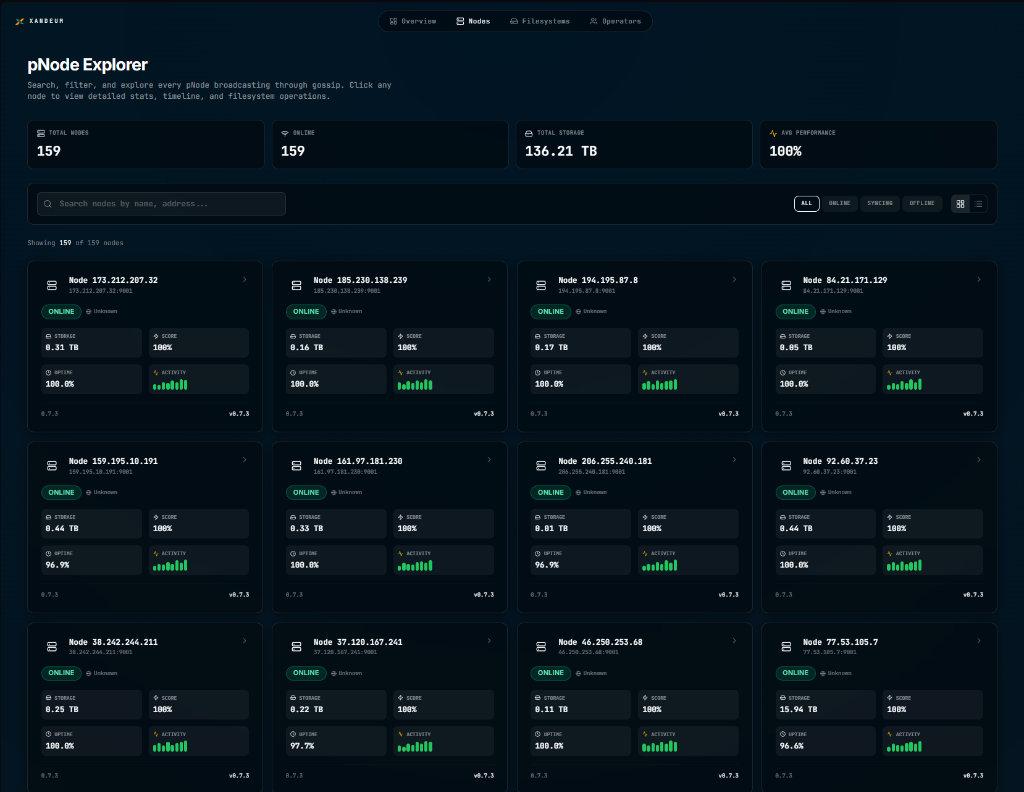
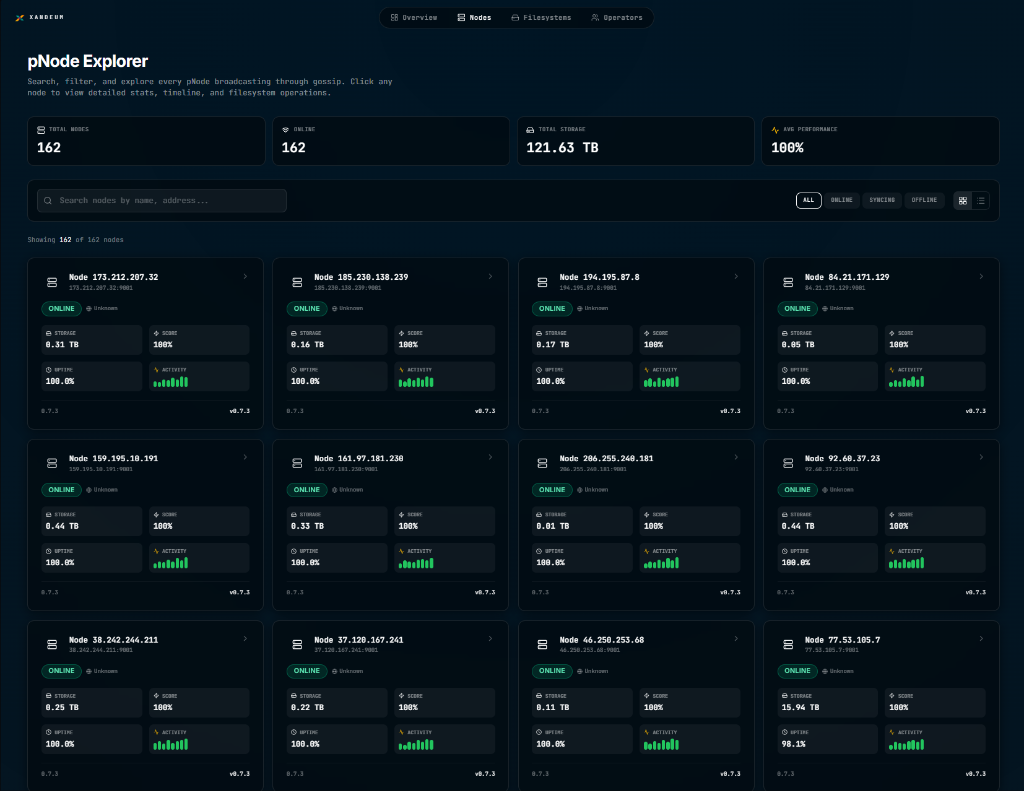
docs: Add `nodes-live-data.png` and `dashboard.png` and update `README.md`.

diff --git a/README.md b/README.md
@@ -9,7 +9,7 @@ XanScope is a web-based analytics dashboard for monitoring and managing [Xandeum
 
 > 🏆 **Built for the Xandeum pNode Analytics Platform Bounty**
 
-![XanScope Dashboard](public/og-image.png)
+![XanScope Dashboard](public/dashboard.png)
 
 ---
 
@@ -28,10 +28,20 @@ XanScope is a web-based analytics dashboard for monitoring and managing [Xandeum
 ## ✨ Features
 
 ### Dashboard
-- **Network Overview** — Live stats: total nodes, online/offline counts, storage capacity
-- **Interactive Globe** — Mapbox-powered 3D globe showing global pNode distribution
-- **Activity Feed** — Real-time stream of network events
-- **Leaderboard** — Top performing nodes by uptime and reliability
+- **Network Overview** — Live stats: total nodes, storage capacity, average usage, network health
+- **Interactive Globe** — Mapbox-powered 3D globe with real IP-based geo-location (via ip-api.com)
+- **Activity Feed** — Real-time stream of network events (live pRPC data or mock)
+- **Leaderboard** — Top performing nodes ranked by uptime
+- **Gateway Metrics** — Requests served and data transferred via connected gateway node
+
+### Bottom Stats Bar
+- **Total Nodes** — Count of all nodes in the gossip network
+- **Avg Usage** — Average storage usage across all nodes
+- **Network Health** — Composite health score based on storage capacity
+- **Avg Uptime** — Average uptime in days across all nodes
+- **Latest Version** — Percentage of nodes on the newest version
+- **Gateway Requests** — Total RPC requests handled by the gateway pNode
+- **Gateway Data** — Cumulative bytes transferred through gateway
 
 ### Nodes Explorer
 - **Searchable Grid** — Filter by region, status, version, provider
@@ -39,7 +49,7 @@ XanScope is a web-based analytics dashboard for monitoring and managing [Xandeum
 - **Performance History** — Timeline charts for each node
 
 ![pNode Explorer with Live Data](public/nodes-live-data.png)
-*Nodes Explorer displaying real data from 159 pNodes on the Xandeum network*
+*Nodes Explorer displaying real data from 162+ pNodes on the Xandeum network*
 
 ### Filesystem Analytics
 - **FS Summaries** — Overview of all registered filesystems
@@ -71,9 +81,10 @@ XanScope uses a **Dual-Client Architecture** to support both development (mock d
 │           ▼ (when PRPC_ENDPOINT is set)                     │
 │   ┌─────────────────┐         ┌─────────────────┐           │
 │   │   prpc-client   │────────▶│  pNode RPC      │ Port 6000 │
-│   │  get-pods       │         │  (JSON-RPC 2.0) │           │
-│   │  get-stats      │         └─────────────────┘           │
-│   │  get-version    │                                        │
+│   │  get-stats      │         │  (JSON-RPC 2.0) │           │
+│   │  get-version    │         └─────────────────┘           │
+│   │  get-pods-with- │                                        │
+│   │     stats       │                                        │
 │   └─────────────────┘                                        │
 │                                                              │
 │   ┌─────────────────┐         ┌─────────────────┐           │
@@ -159,28 +170,35 @@ To connect to a real pNode:
 ```
 xanscope/
 ├── app/                    # Next.js App Router pages
+│   ├── api/                # API routes (feed, analytics, node-locations)
 │   ├── page.tsx            # Dashboard home
 │   ├── nodes/              # Nodes explorer + detail pages
 │   ├── fs/                 # Filesystem analytics
-│   ├── operators/          # Personal operator dashboard
-│   ├── network/            # Network-wide stats
-│   └── insights/           # Analytics & charts
+│   └── operators/          # Personal operator dashboard
 ├── components/
+│   ├── dashboard/          # Dashboard-specific components
 │   ├── ui/                 # Base UI primitives (Card, Button, etc.)
-│   ├── layout/             # Header, sidebar, navigation
-│   ├── visuals/            # Globe, charts, animations
+│   ├── layout/             # Header, navigation
+│   ├── visuals/            # Globe, starfield, HUD overlay
 │   ├── nodes/              # Node-specific components
+│   ├── operators/          # Operator dashboard components
 │   └── fs/                 # Filesystem components
+├── docs/                   # Documentation
+│   ├── GETTING-STARTED.md
+│   ├── CONNECTING-PNODE.md
+│   ├── DEPLOYMENT.md
+│   ├── API-REFERENCE.md
+│   └── ARCHITECTURE.md
 ├── lib/
 │   ├── data-service.ts     # Data aggregation layer
 │   ├── prpc-client.ts      # pNode RPC client
 │   ├── xandeum-client.ts   # Solana/Xandeum RPC client
 │   ├── mock-data.ts        # Development mock data
-│   └── types.ts            # TypeScript interfaces
+│   ├── types.ts            # TypeScript interfaces
+│   └── utils.ts            # Utility functions
 └── public/
-    ├── Brief.md            # Bounty requirements
-    ├── XANDEUM API.md      # API documentation
-    └── XANDEUM.md          # Xandeum overview
+    ├── dashboard.png       # Dashboard screenshot
+    └── nodes-live-data.png # Nodes explorer screenshot
 ```
 
 ---
@@ -216,11 +234,11 @@ Returns comprehensive node statistics.
 // Response: { "result": { "metadata": {...}, "stats": {...}, "file_size": 1048576 } }
 ```
 
-### `get-pods`
-Returns all known peer pNodes in the network.
+### `get-pods-with-stats`
+Returns all known peer pNodes with extended statistics (uptime, storage, version).
 ```json
-{ "jsonrpc": "2.0", "method": "get-pods", "id": 1 }
-// Response: { "result": { "pods": [...], "total_count": 42 } }
+{ "jsonrpc": "2.0", "method": "get-pods-with-stats", "id": 1 }
+// Response: { "result": { "pods": [{"address": "...", "uptime": 123456, "storage_used": ..., "version": "0.7.0"}, ...] } }
 ```
 
 ---
@@ -282,16 +300,20 @@ This project was built for the **Xandeum pNode Analytics Platform Bounty**.
 
 ### Innovation Highlights
 
-- 🌍 **Interactive 3D Globe** — Real-time node visualization
+- 🌍 **Interactive 3D Globe** — Real-time node visualization with IP geo-location
 - 🎨 **Premium Dark Aesthetic** — Inspired by Xandeum branding
 - 📊 **Operators Dashboard** — Personal node watchlist
 - 🔄 **Dual Architecture** — Seamless mock ↔ production toggle
+- 📍 **Real IP Geo-Location** — Nodes positioned on globe using ip-api.com batch lookup
+- 🏆 **Live Leaderboard** — Top nodes ranked by uptime in real-time
+- 🚀 **Gateway Metrics** — Unique insight into RPC requests and data transfer
+- ⏱ **5-Minute Refresh** — Globe data refreshes every 5 minutes for live updates
 
 ---
 
 ## 📄 License
 
-MIT License — see [LICENSE](LICENSE) for details.
+MIT License — see [LICENSE](https://opensource.org/license/MIT) for details.
 
 ---
 
